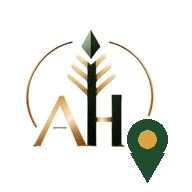
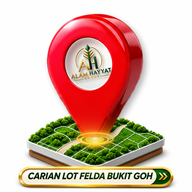
Add files via upload

diff --git a/index.html b/index.html
@@ -86,11 +86,8 @@ button{font:inherit;color:inherit;cursor:pointer}
 #lock{position:fixed;inset:0;z-index:100;background:radial-gradient(120% 80% at 50% 0%,#1f5a3d 0%,#12301f 60%);color:#fff;display:flex;align-items:center;justify-content:center;padding:20px;overflow:auto}
 #lock.gone{display:none}
 .lk{max-width:360px;width:100%;text-align:center}
-.lk-n{font-size:9.5px;letter-spacing:.06em;color:#e0b56a;font-weight:700;margin-bottom:18px}
-.lk-logo{position:relative;width:132px;height:132px;margin:0 auto;border-radius:28px;background:#fff;box-shadow:0 8px 28px rgba(0,0,0,.35);overflow:visible}
-.lk-logo img{width:132px;height:132px;border-radius:28px;display:block}
-.lk-pin{position:absolute;right:-10px;bottom:-6px;width:40px;height:40px;background:#1f4d2e;border:4px solid #fff;border-radius:50% 50% 50% 0;transform:rotate(-45deg)}
-.lk-pin::after{content:"";position:absolute;left:50%;top:50%;width:13px;height:13px;margin:-6.5px 0 0 -6.5px;border-radius:50%;background:#d9a441}
+.lk-n{font-size:13px;letter-spacing:.18em;color:#e0b56a;font-weight:700;margin-bottom:18px}
+.lk-hero{width:190px;height:190px;display:block;margin:0 auto;border-radius:34px;background:#fff;box-shadow:0 10px 30px rgba(0,0,0,.35)}
 .lk h1{font-size:24px;line-height:1.2;margin:14px 0 6px}
 .lk-s{font-size:13px;color:#cfe0d5;margin:0 0 18px}
 #lki,#lkc{width:100%;border:0;border-radius:12px;padding:13px 14px;font-size:17px;text-align:center;color:#17231d;background:#fff}
@@ -103,18 +100,23 @@ button{font:inherit;color:inherit;cursor:pointer}
 .lk-f{font-size:11px;color:#9fbfac;margin-top:26px}
 #ver{font-size:10px;color:var(--muted)}
 
+.lk-pw{position:relative;margin-top:8px}
+.lk-pw #lkc{padding-left:52px;padding-right:52px}
+#lkeye{position:absolute;right:6px;top:50%;transform:translateY(-50%);width:44px;height:44px;border:0;background:transparent;border-radius:10px;display:flex;align-items:center;justify-content:center;cursor:pointer}
+#lkeye:active{background:#eef3ef}
+
 </style>
 </head>
 <body>
 <div id="lock">
   <div class="lk">
-    <div class="lk-n">DI BAWAH NAUNGAN KEBAWAH DULI YANG MAHA MULIA SULTAN PAHANG</div>
-    <div class="lk-logo"><img src="logo.jpg" alt="Alam Hayyat Group"><span class="lk-pin"></span></div>
+    <div class="lk-n">THE KEY · BKTGOH 2.0</div>
+    <img class="lk-hero" src="logo.jpg" alt="Carian Lot FELDA Bukit Goh · Alam Hayyat Group">
     <h1>Carian Lot<br>FELDA Bukit Goh 2.0</h1>
     <p class="lk-s">Untuk kegunaan IGFWK dan syarikat usahasama sahaja. Data peneroka adalah SULIT.</p>
     <form id="lkf" autocomplete="off">
       <input id="lki" type="text" placeholder="ID pengguna" autocapitalize="none" autocomplete="username" spellcheck="false">
-      <input id="lkc" type="password" placeholder="Kata laluan" autocomplete="current-password" spellcheck="false" style="margin-top:8px">
+      <div class="lk-pw"><input id="lkc" type="password" placeholder="Kata laluan" autocomplete="current-password" spellcheck="false"><button type="button" id="lkeye" aria-label="Tunjuk kata laluan" title="Tunjuk / sembunyi kata laluan"><svg id="eyeOn" viewBox="0 0 24 24" width="24" height="24" fill="none" stroke="#1f4d2e" stroke-width="2" stroke-linecap="round" stroke-linejoin="round"><path d="M1 12s4-7 11-7 11 7 11 7-4 7-11 7S1 12 1 12z"/><circle cx="12" cy="12" r="3"/></svg><svg id="eyeOff" viewBox="0 0 24 24" width="24" height="24" fill="none" stroke="#1f4d2e" stroke-width="2" stroke-linecap="round" stroke-linejoin="round" style="display:none"><path d="M17.9 17.9A10.8 10.8 0 0 1 12 19c-7 0-11-7-11-7a19.8 19.8 0 0 1 5.1-5.9M9.9 4.2A10.4 10.4 0 0 1 12 4c7 0 11 7 11 7a19.9 19.9 0 0 1-2.2 3.2M14.1 14.1a3 3 0 1 1-4.2-4.2"/><path d="M1 1l22 22"/></svg></button></div>
       <label class="lk-r"><input id="lkm" type="checkbox" checked> Ingat peranti ini</label>
       <button id="lkb" type="submit">Log masuk</button>
     </form>
@@ -127,7 +129,7 @@ button{font:inherit;color:inherit;cursor:pointer}
 
 <div id="map"><div id="layer"><img id="img" alt="Pelan Rancangan FELDA Bukit Goh" src=""><svg id="zsvg"></svg></div><div id="marks"></div></div>
 <div id="top">
-  <div id="naung">DI BAWAH NAUNGAN KEBAWAH DULI YANG MAHA MULIA SULTAN PAHANG</div>
+  <div id="naung">THE KEY · BKTGOH 2.0</div>
   <div id="brand"><b>Carian Lot · FELDA Bukit Goh 2.0</b><span style="text-align:right">SULIT · IGFWK<br><i id="ver" style="font-style:normal;font-weight:400;color:#cfe0d5"></i></span></div>
   <div id="sbox"><input id="q" type="search" placeholder="Cari nombor lot atau nama peneroka…" autocomplete="off" enterkeyhint="search"><button id="gpsBtn" title="Lokasi saya">◎ Saya</button><button id="calBtn" title="Tetapan">⚙</button></div>
   <div id="chips"></div>
@@ -316,6 +318,7 @@ window.addEventListener('beforeinstallprompt',e=>{e.preventDefault();deferred=e;
 $('lkinst').onclick=async()=>{if(!deferred)return;deferred.prompt();await deferred.userChoice;deferred=null;$('lkinst').hidden=true};
 const standalone=matchMedia('(display-mode: standalone)').matches||navigator.standalone;
 if(/iphone|ipad|ipod/i.test(navigator.userAgent)&&!standalone)$('lkios').hidden=false;
+$('lkeye').onclick=()=>{const i=$('lkc'),show=i.type==='password';i.type=show?'text':'password';$('eyeOn').style.display=show?'none':'';$('eyeOff').style.display=show?'':'none';$('lkeye').setAttribute('aria-label',show?'Sembunyi kata laluan':'Tunjuk kata laluan');i.focus()};
 // ---------- simpanan peranti ----------
 function idb(){return new Promise((ok,no)=>{const r=indexedDB.open('bglot',2);r.onupgradeneeded=()=>{if(!r.result.objectStoreNames.contains('k'))r.result.createObjectStore('k')};r.onsuccess=()=>ok(r.result);r.onerror=()=>no(r.error)})}
 async function kget(){try{const db=await idb();return await new Promise(ok=>{const q=db.transaction('k').objectStore('k').get('sess');q.onsuccess=()=>ok(q.result||null);q.onerror=()=>ok(null)})}catch(e){return null}}

diff --git a/sw.js b/sw.js
@@ -1,4 +1,4 @@
-const V='bg-lot-37203acd9b';
+const V='bg-lot-1b38b133c9';
 const SHELL=['./','index.html','manifest.webmanifest','icon-192.png','icon-512.png','data.txt','keys.json','logo.jpg'];
 self.addEventListener('install',e=>{e.waitUntil(caches.open(V).then(c=>Promise.allSettled(SHELL.map(u=>c.add(u)))).then(()=>self.skipWaiting()))});
 self.addEventListener('activate',e=>{e.waitUntil(caches.keys().then(ks=>Promise.all(ks.filter(k=>k!==V).map(k=>caches.delete(k)))).then(()=>self.clients.claim()))});
